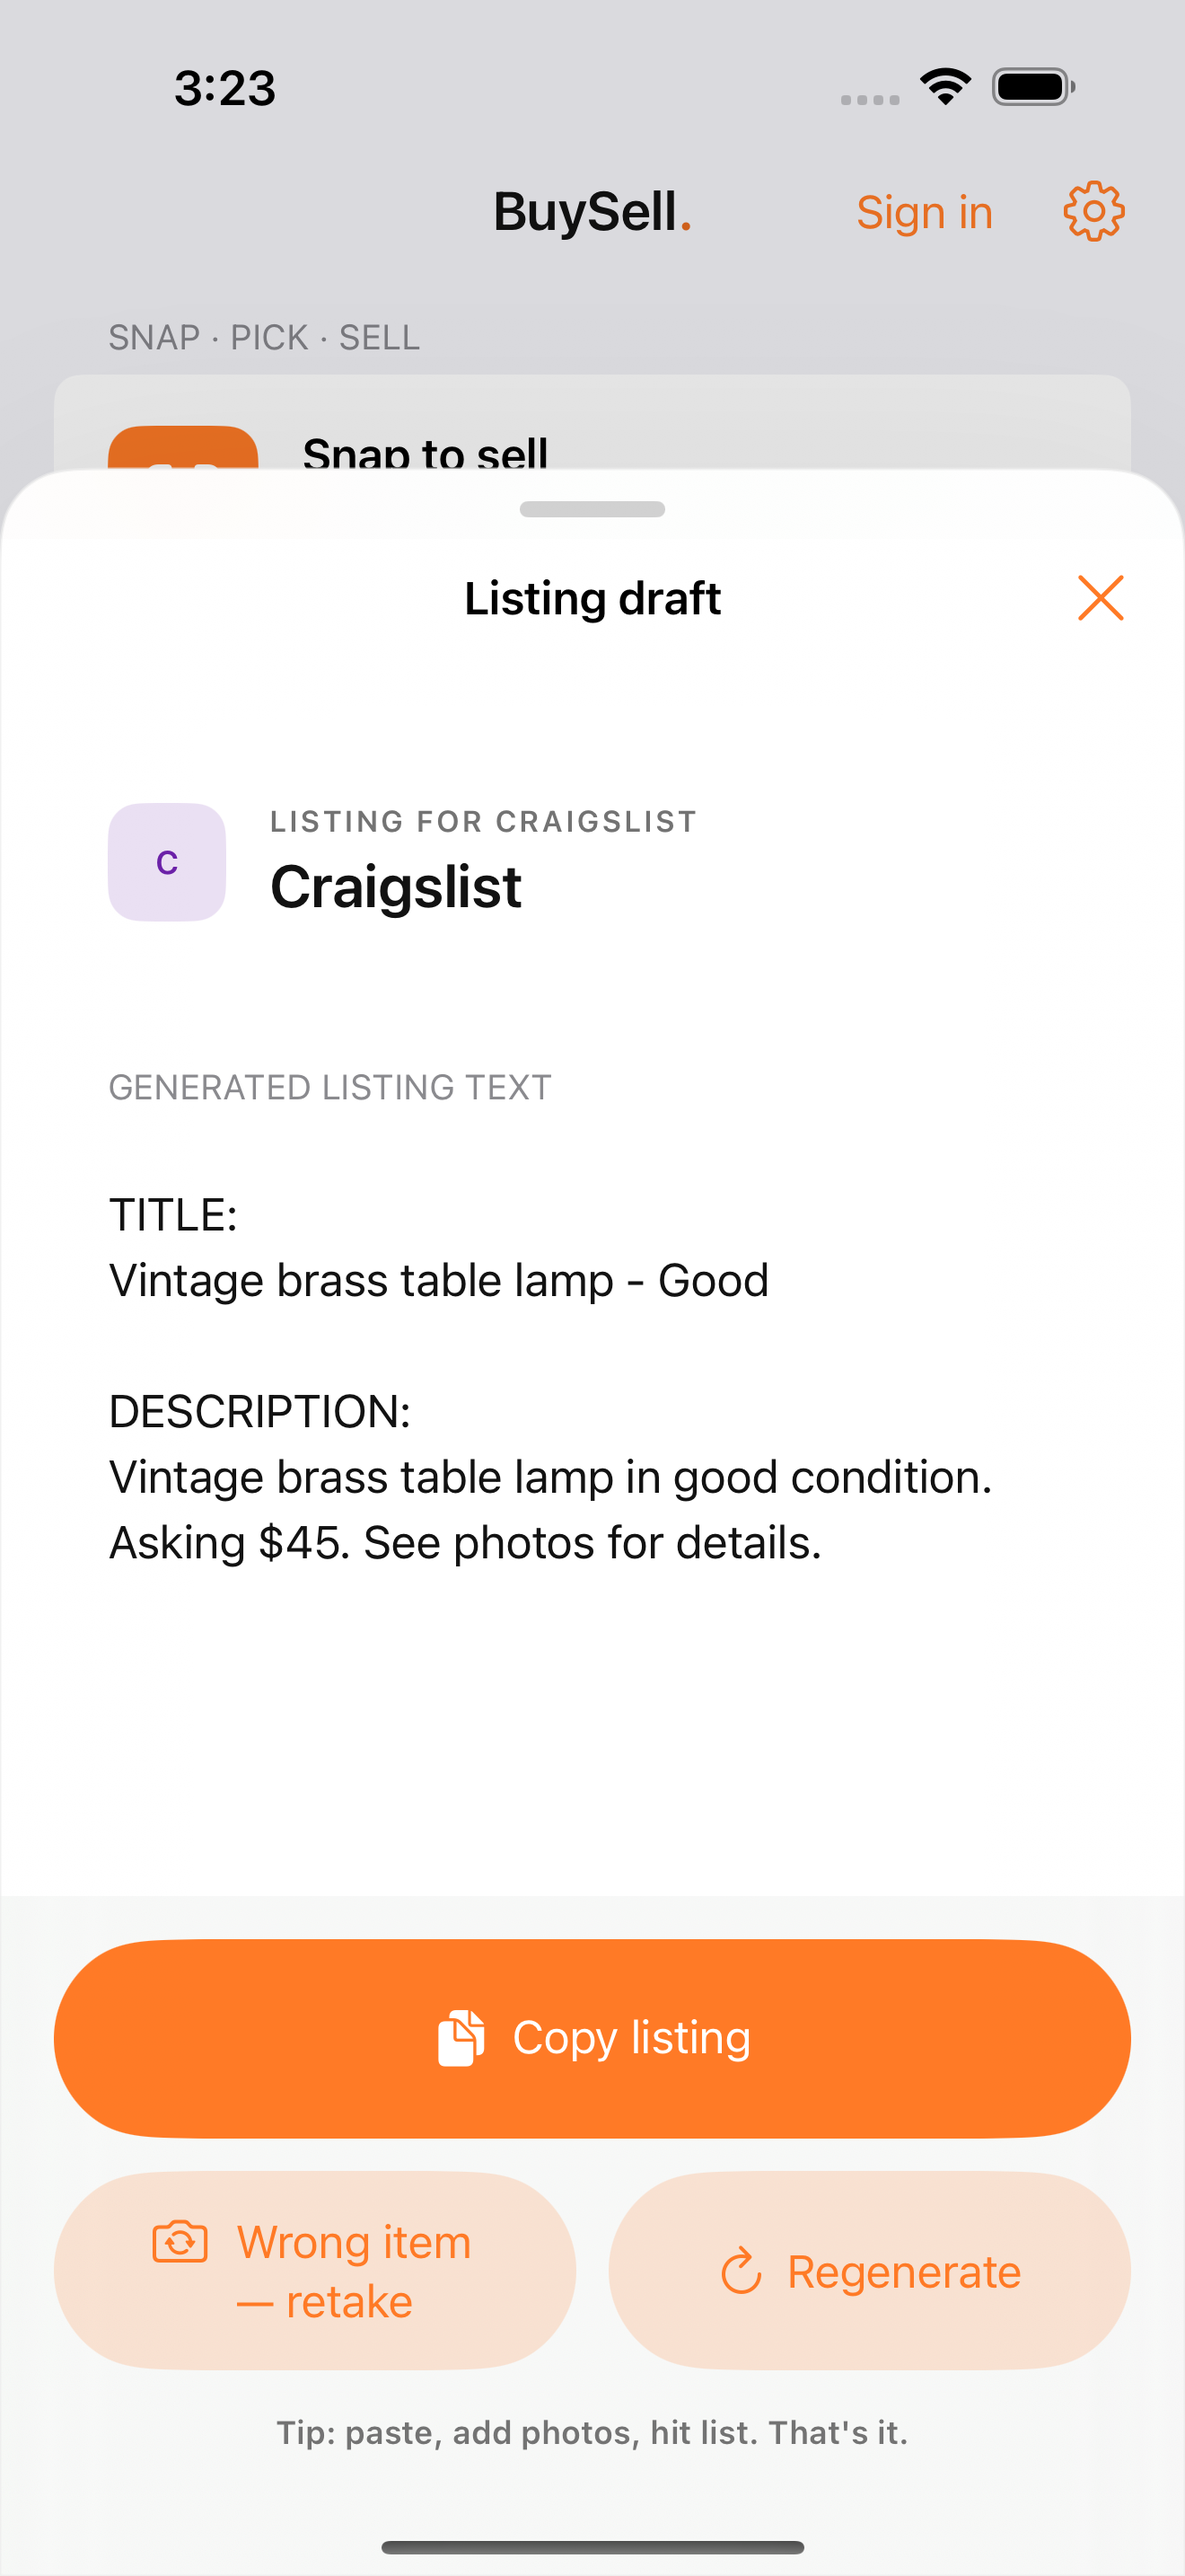
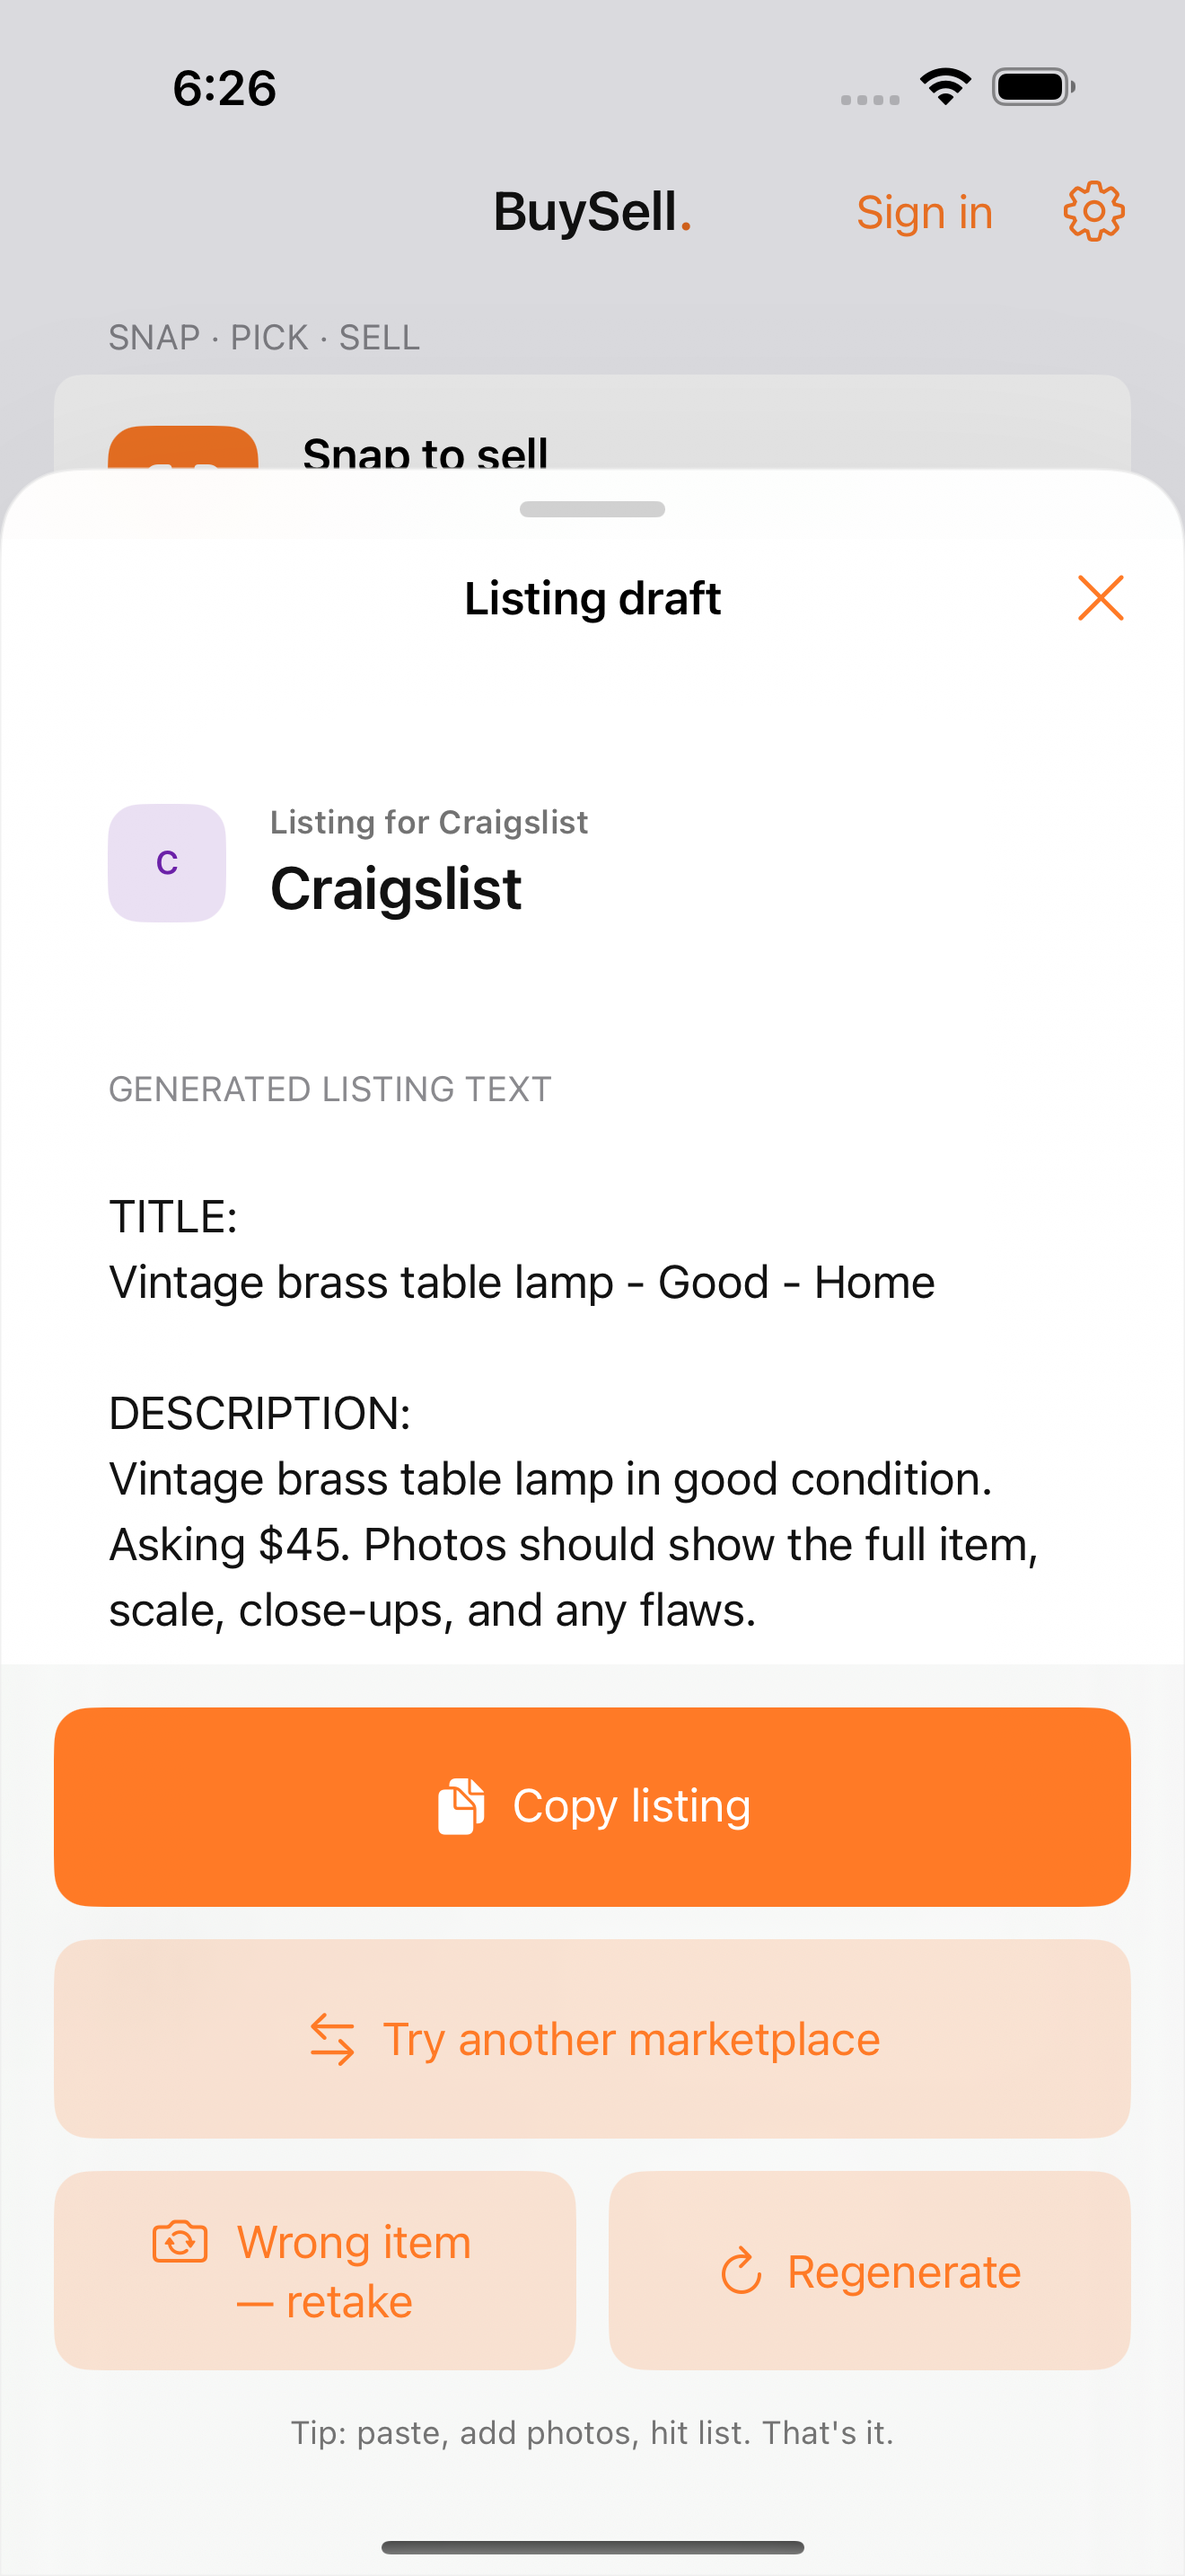
Let listings switch marketplaces

diff --git a/BuySellAITests/DesignAccessibilityTests.swift b/BuySellAITests/DesignAccessibilityTests.swift
@@ -1618,20 +1618,24 @@ final class DesignAccessibilityTests: XCTestCase {
         XCTAssertNotNil(listing.range(of: #".contentMargins(.bottom, bottomContentInset, for: .scrollContent)"#))
         XCTAssertNotNil(listing.range(of: #"if dynamicTypeSize.isAccessibilitySize"#))
         XCTAssertNotNil(listing.range(of: #"private var bottomContentInset: CGFloat"#))
-        XCTAssertNotNil(listing.range(of: #"dynamicTypeSize.isAccessibilitySize ? 240 : 164"#))
+        XCTAssertNotNil(listing.range(of: #"dynamicTypeSize.isAccessibilitySize ? 300 : 216"#))
         XCTAssertNotNil(bottomSource.range(of: ".buttonStyle(.borderedProminent)"))
         XCTAssertNotNil(bottomSource.range(of: ".buttonStyle(.bordered)"))
         XCTAssertNil(bottomSource.range(of: ".buttonBorderShape(.capsule)"))
         XCTAssertNotNil(bottomSource.range(of: ".controlSize(.large)"))
 
         let copyRange = try XCTUnwrap(bottomSource.range(of: #"Label("Copy listing".localized, systemImage: "doc.on.doc.fill")"#))
+        let marketplaceRange = try XCTUnwrap(bottomSource.range(of: #"secondaryActionButton(title: "Try another marketplace", systemImage: "arrow.left.arrow.right")"#))
         let retakeRange = try XCTUnwrap(bottomSource.range(of: #"secondaryActionButton(title: "Wrong item — retake", systemImage: "camera.rotate")"#))
         let regenerateButtonRange = try XCTUnwrap(bottomSource.range(of: #"secondaryActionButton(title: "Regenerate", systemImage: "arrow.clockwise")"#))
         let footerRange = try XCTUnwrap(bottomSource.range(of: #"Text("Tip: paste, add photos, hit list. That's it.".localized)"#))
 
         XCTAssertLessThan(copyRange.lowerBound, retakeRange.lowerBound)
+        XCTAssertLessThan(copyRange.lowerBound, marketplaceRange.lowerBound)
+        XCTAssertLessThan(marketplaceRange.lowerBound, retakeRange.lowerBound)
         XCTAssertLessThan(retakeRange.lowerBound, regenerateButtonRange.lowerBound)
         XCTAssertLessThan(regenerateButtonRange.lowerBound, footerRange.lowerBound)
+        XCTAssertNotNil(listing.range(of: #"appStore.presentMarketplacePicker(item: context.item, imageData: context.imageData)"#))
     }
 
     func testListingClipboardTextIsContractValidatedBeforeCopying() throws {

diff --git a/BuySellAIUITests/BuySellAIUITests.swift b/BuySellAIUITests/BuySellAIUITests.swift
@@ -671,6 +671,36 @@ final class BuySellAIUITests: XCTestCase {
         XCTAssertFalse(app.staticTexts["Pick where to sell"].exists)
     }
 
+    func testListingCanReturnToMarketplacePickerWithoutRetakingPhoto() {
+        let app = XCUIApplication()
+        app.launchArguments = ["--ui-testing", "--skip-tutorial", "--reset-auth", "--reset-history"]
+        app.launch()
+
+        let snap = app.buttons["Snap to sell"]
+        XCTAssertTrue(snap.waitForExistence(timeout: 5))
+        snap.tap()
+
+        let looksRight = app.buttons["Looks right — pick where to sell"]
+        XCTAssertTrue(looksRight.waitForExistence(timeout: 5))
+        looksRight.tap()
+
+        tapMarketplace("craigslist", in: app)
+
+        let copy = app.buttons["Copy listing"]
+        XCTAssertTrue(copy.waitForExistence(timeout: 5))
+        XCTAssertTrue(app.staticTexts["Craigslist"].exists)
+
+        let tryAnother = app.buttons["Try another marketplace"]
+        XCTAssertTrue(tryAnother.waitForExistence(timeout: 5))
+        tryAnother.tap()
+
+        XCTAssertTrue(app.staticTexts["Pick where to sell"].waitForExistence(timeout: 5))
+        tapMarketplace("ebay", in: app)
+
+        XCTAssertTrue(copy.waitForExistence(timeout: 5))
+        XCTAssertTrue(app.staticTexts["eBay"].exists)
+    }
+
     func testCopyListingWritesOnlyListingTextToPasteboard() {
         let app = XCUIApplication()
         app.launchArguments = ["--ui-testing", "--skip-tutorial", "--reset-auth", "--reset-history", "--ui-testing-verify-clipboard"]

diff --git a/BuySellAITests/AppStoreFlowTransitionTests.swift b/BuySellAITests/AppStoreFlowTransitionTests.swift
@@ -36,13 +36,30 @@ final class AppStoreFlowTransitionTests: XCTestCase {
 
         XCTAssertNil(store.snapResultContext)
         XCTAssertEqual(store.marketplacePickerContext?.item, item)
-        XCTAssertEqual(store.marketplacePickerContext?.imageData, imageData)
+        XCTAssertEqual(store.marketplacePickerContext?.imageData, Optional(imageData))
         XCTAssertNil(store.listingContext)
         guard case .marketplacePicker(let context) = store.flowSheetContext else {
             return XCTFail("Expected marketplace picker flow sheet.")
         }
         XCTAssertEqual(context.item, item)
-        XCTAssertEqual(context.imageData, imageData)
+        XCTAssertEqual(context.imageData, Optional(imageData))
+    }
+
+    func testMarketplacePickerCanOpenFromSavedListingWithoutFullPhotoData() {
+        let store = makeStore()
+        let item = lamp
+
+        store.presentMarketplacePicker(item: item, imageData: nil)
+
+        XCTAssertNil(store.snapResultContext)
+        XCTAssertEqual(store.marketplacePickerContext?.item, item)
+        XCTAssertNil(store.marketplacePickerContext?.imageData)
+        XCTAssertNil(store.listingContext)
+        guard case .marketplacePicker(let context) = store.flowSheetContext else {
+            return XCTFail("Expected marketplace picker flow sheet.")
+        }
+        XCTAssertEqual(context.item, item)
+        XCTAssertNil(context.imageData)
     }
 
     func testListingUpdatesSingleFlowSheetImmediately() {

diff --git a/BuySellAITests/M10UITestRunnerScriptTests.swift b/BuySellAITests/M10UITestRunnerScriptTests.swift
@@ -11,7 +11,7 @@ final class M10UITestRunnerScriptTests: XCTestCase {
 
         XCTAssertTrue(FileManager.default.fileExists(atPath: scriptURL.path))
         XCTAssertTrue(FileManager.default.isExecutableFile(atPath: scriptURL.path))
-        XCTAssertGreaterThanOrEqual(expectedTests.count, 32)
+        XCTAssertGreaterThanOrEqual(expectedTests.count, 33)
         XCTAssertEqual(configuredTests, expectedTests)
         XCTAssertNotNil(script.range(of: "M10_UI_RESULT_ROOT"))
         XCTAssertNotNil(script.range(of: "M10_UI_CONTINUE_ON_FAILURE"))
@@ -69,7 +69,7 @@ final class M10UITestRunnerScriptTests: XCTestCase {
         XCTAssertTrue(FileManager.default.isExecutableFile(atPath: scriptURL.path))
         XCTAssertNotNil(script.range(of: "M10_UI_RESULT_ROOT"))
         XCTAssertNotNil(script.range(of: "M10_UI_TEST_SOURCE"))
-        XCTAssertNotNil(script.range(of: "M10_MIN_UI_TESTS:-32"))
+        XCTAssertNotNil(script.range(of: "M10_MIN_UI_TESTS:-33"))
         XCTAssertNotNil(script.range(of: "BuySellAIUITests/BuySellAIUITests.swift"))
         XCTAssertNotNil(script.range(of: "M10 UI chunked tests passed"))
         XCTAssertNotNil(script.range(of: "M10 UI evidence passed"))

diff --git a/BuySellAI/Features/Listing/ListingSheet.swift b/BuySellAI/Features/Listing/ListingSheet.swift
@@ -238,6 +238,11 @@ struct ListingSheet: View {
             .accessibilityLabel("Copy listing".localized)
             .accessibilitySortPriority(3)
 
+            secondaryActionButton(title: "Try another marketplace", systemImage: "arrow.left.arrow.right") {
+                chooseAnotherMarketplace()
+            }
+            .accessibilitySortPriority(2)
+
             if dynamicTypeSize.isAccessibilitySize {
                 VStack(spacing: Spacing.sm) {
                     secondaryActionButton(title: "Wrong item — retake", systemImage: "camera.rotate") {
@@ -305,6 +310,10 @@ struct ListingSheet: View {
         }
     }
 
+    private func chooseAnotherMarketplace() {
+        appStore.presentMarketplacePicker(item: context.item, imageData: context.imageData)
+    }
+
     private func retakePhoto() {
         appStore.retakePhoto(keeping: context.marketplace)
     }
@@ -344,7 +353,7 @@ struct ListingSheet: View {
     }
 
     private var bottomContentInset: CGFloat {
-        dynamicTypeSize.isAccessibilitySize ? 240 : 164
+        dynamicTypeSize.isAccessibilitySize ? 300 : 216
     }
 
     private func skeletonLineWidth(for index: Int) -> CGFloat? {

diff --git a/BuySellAI/App/AppRouter.swift b/BuySellAI/App/AppRouter.swift
@@ -230,7 +230,7 @@ final class AppStore {
         isShowingCamera = false
     }
 
-    func presentMarketplacePicker(item: DetectedItem, imageData: Data) {
+    func presentMarketplacePicker(item: DetectedItem, imageData: Data?) {
         advanceFlowGeneration()
         presentFlowSheet(.marketplacePicker(MarketplacePickerContext(item: item, imageData: imageData)))
     }

diff --git a/BuySellAI/Data/Models.swift b/BuySellAI/Data/Models.swift
@@ -340,7 +340,7 @@ struct SnapResultContext: Identifiable, Equatable {
 struct MarketplacePickerContext: Identifiable, Equatable {
     let id = UUID()
     let item: DetectedItem
-    let imageData: Data
+    let imageData: Data?
 }
 
 struct ListingContext: Identifiable, Equatable {

diff --git a/M10_ACCEPTANCE.md b/M10_ACCEPTANCE.md
@@ -6,7 +6,7 @@ This checklist tracks the remaining submit-readiness work for BuySell AI iOS. Si
 
 - Simulator suite: `512` unit/UI tests pass on iPhone 16 Pro simulator, iOS 18.6, from the latest app-source evidence bundle `/tmp/buysell-submit-readiness-full.xcresult`.
 - Unit target: `480` `BuySellAITests` tests pass on iPhone 16 Pro simulator, iOS 18.6, in the retained bundle `/tmp/buysell-full-unit-tests.xcresult`.
-- Chunked simulator UI evidence: all `32` `BuySellAIUITests` tests pass through `M10_UI_SNAPSHOT_ROOT=/tmp/buysell-m10-ui-worktree DESTINATION='platform=iOS Simulator,name=iPhone 16 Pro,OS=18.6' bash Scripts/run_m10_ui_tests.sh`, with the rollup retained at `/tmp/buysell-m10-ui-tests/summary.log`, verifier evidence retained at `/tmp/buysell-submit-readiness-ui.log`, and per-test `.xcresult`/`.log` artifacts under `/tmp/buysell-m10-ui-tests/`.
+- Chunked simulator UI evidence: all `33` `BuySellAIUITests` tests pass through `M10_UI_SNAPSHOT_ROOT=/tmp/buysell-m10-ui-worktree DESTINATION='platform=iOS Simulator,name=iPhone 16 Pro,OS=18.6' bash Scripts/run_m10_ui_tests.sh`, with the rollup retained at `/tmp/buysell-m10-ui-tests/summary.log`, verifier evidence retained at `/tmp/buysell-submit-readiness-ui.log`, and per-test `.xcresult`/`.log` artifacts under `/tmp/buysell-m10-ui-tests/`.
 - Focused M10 guardrail coverage: the latest app-source full-suite result bundle `/tmp/buysell-submit-readiness-full.xcresult` includes the required M10 script, metadata, Today nomination, backend, signing, config-security, performance, UI-evidence, localization, camera, and real-device guardrails; focused M10 guardrail evidence also passes `480` tests at `/tmp/buysell-submit-readiness-focused.xcresult`.
 - No-sign Release iPhoneOS archive: compiles and packages a `4800KB` app bundle from a lean snapshot worktree; refreshed evidence is retained at `/tmp/buysell-submit-readiness-nosign.log` and `/tmp/buysell-submit-readiness-nosign.xcarchive`.
 - Binary-size check: archived app bundle stays under `20 MB`.
